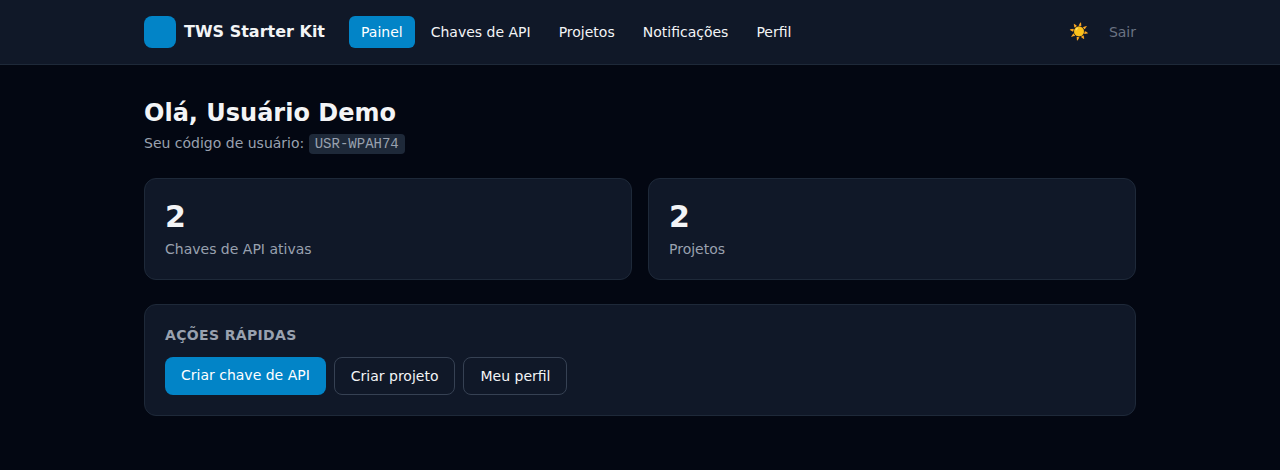
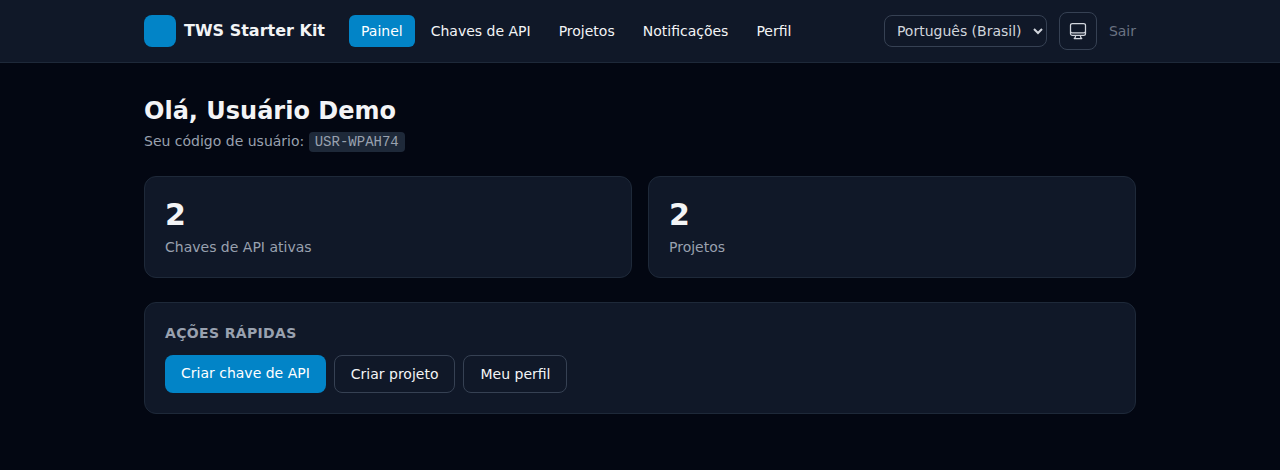
fix(ui): inputs não marcam estado de erro quando $errors->first() retorna vazio + hero atualizado

diff --git a/resources/views/components/input.blade.php b/resources/views/components/input.blade.php
@@ -15,7 +15,7 @@
     $inputClasses =
         'block w-full rounded-lg border bg-white px-3 py-2 text-sm text-gray-900 placeholder-gray-400 transition focus:outline-none focus:ring-2 focus:ring-(--brand)/50 disabled:cursor-not-allowed disabled:opacity-60 dark:bg-gray-900 dark:text-gray-100 '
         .($isPassword ? 'pr-10 ' : '')
-        .($error !== null
+        .(! empty($error)
             ? 'border-red-500 focus:border-red-500'
             : 'border-gray-300 focus:border-(--brand) dark:border-gray-700');
 @endphp
@@ -54,7 +54,7 @@
             {{ $attributes->except('class')->merge(['class' => $inputClasses]) }}
         >
     @endif
-    @if ($error !== null)
+    @if (! empty($error))
         <p class="mt-1.5 text-sm text-red-600 dark:text-red-400">{{ $error }}</p>
     @elseif ($hint !== null)
         <p class="mt-1.5 text-sm text-gray-500 dark:text-gray-400">{{ $hint }}</p>

diff --git a/resources/views/components/textarea.blade.php b/resources/views/components/textarea.blade.php
@@ -20,12 +20,12 @@
         @disabled($disabled)
         {{ $attributes->except('class')->merge(['class' =>
             'block w-full rounded-lg border bg-white px-3 py-2 text-sm text-gray-900 placeholder-gray-400 transition focus:outline-none focus:ring-2 focus:ring-(--brand)/50 disabled:cursor-not-allowed disabled:opacity-60 dark:bg-gray-900 dark:text-gray-100 '
-            .($error !== null
+            .(! empty($error)
                 ? 'border-red-500 focus:border-red-500'
                 : 'border-gray-300 focus:border-(--brand) dark:border-gray-700'),
         ]) }}
     >{{ $slot }}</textarea>
-    @if ($error !== null)
+    @if (! empty($error))
         <p class="mt-1.5 text-sm text-red-600 dark:text-red-400">{{ $error }}</p>
     @elseif ($hint !== null)
         <p class="mt-1.5 text-sm text-gray-500 dark:text-gray-400">{{ $hint }}</p>

diff --git a/resources/views/components/select.blade.php b/resources/views/components/select.blade.php
@@ -16,12 +16,12 @@
         @disabled($disabled)
         {{ $attributes->except('class')->merge(['class' =>
             'block w-full rounded-lg border bg-white px-3 py-2 text-sm text-gray-900 transition focus:outline-none focus:ring-2 focus:ring-(--brand)/50 disabled:cursor-not-allowed disabled:opacity-60 dark:bg-gray-900 dark:text-gray-100 '
-            .($error !== null
+            .(! empty($error)
                 ? 'border-red-500 focus:border-red-500'
                 : 'border-gray-300 focus:border-(--brand) dark:border-gray-700'),
         ]) }}
     >{{ $slot }}</select>
-    @if ($error !== null)
+    @if (! empty($error))
         <p class="mt-1.5 text-sm text-red-600 dark:text-red-400">{{ $error }}</p>
     @endif
 </div>
